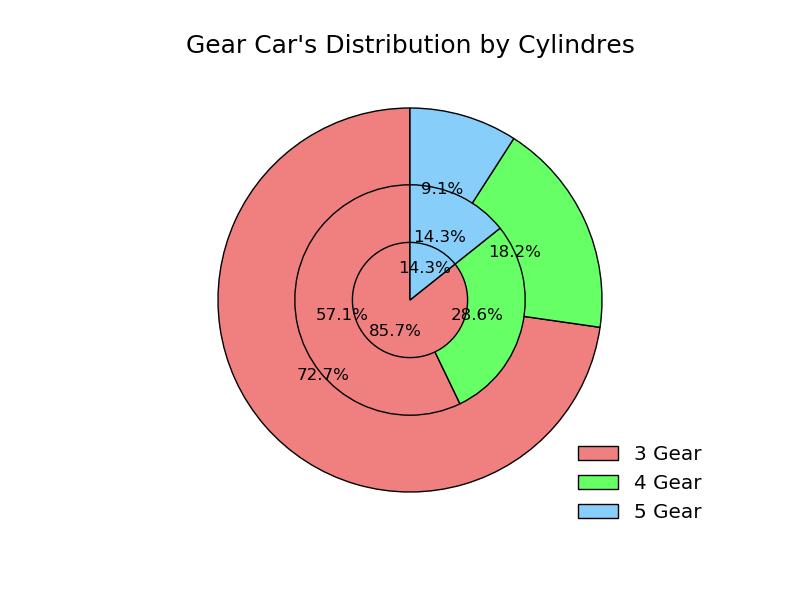
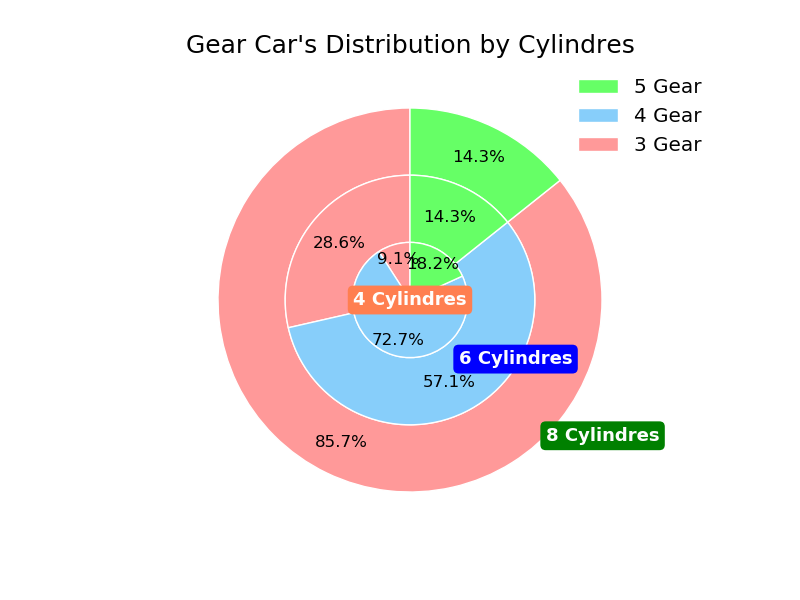
Ring Chart py

Changed region(s): [[0.25, 0.18, 0.875, 0.87], [0.7188, 0.12, 0.875, 0.27]]

diff --git a/display-patterns/Proportions/A41Simple_Pie_ChartPy.md b/display-patterns/Proportions/A41Simple_Pie_ChartPy.md
@@ -30,32 +30,107 @@ aggfunc =len)
 
 ~~~~{.python}
 import matplotlib.pyplot as plt
-import numpy as np
 from datos import data
+import pandas
 
-
-labels = '4 Cyl', '6 Cyl', '8 cyl'
-colors = ['yellowgreen', 'lightskyblue', 'lightcoral']
+colors = ['lightcoral', 'lightskyblue','yellowgreen']
 d=data('mtcars')
-t1 = d.pivot_table( values = 'carb',index=['cyl'], columns = ['gear'],
-aggfunc = len)
-plt.pie(t1.index,  labels=labels, colors=colors,
-        autopct='%1.1f%%', shadow=True, startangle=90)
+ps = pandas.Series([i for i in d.cyl])
+c = ps.value_counts()
+plt.pie(c,  labels=c.index, colors=colors, autopct='%1.1f%%',
+shadow=True, startangle=0)
 plt.axis('equal')
 plt.title('Car Distribution by Cylindres', size=18)
 plt.show()
 ~~~~~~~~~~~~~
 
-![](figures/A41Simple_Pie_ChartPy_figure2_1.png)\
+![](figures/A41Simple_Pie_ChartPy_figure2_1.png)
 
 
 
 ### Seaborn
 
 
+~~~~{.python}
+import matplotlib.pyplot as plt
+import seaborn as sns
+from datos import data
+import pandas
+
+sns.set(style="white")
+d=data('mtcars')
+colors = sns.husl_palette(3)
+d=data('mtcars')
+ps = pandas.Series([i for i in d.cyl])
+c = ps.value_counts()
+plt.pie(c,  labels=c.index, colors=colors, autopct='%1.1f%%',
+shadow=True, startangle=0)
+plt.title('Car Distribution by Cylindres', size=18)
+plt.show()
+~~~~~~~~~~~~~
+
+![](figures/A41Simple_Pie_ChartPy_figure3_1.png)
+
 
 
 ### Pyqtgraph
+
+
+~~~~{.python}
+import pyqtgraph as pg
+import random
+import numpy
+from  PyQt4  import  QtGui
+from datos import data
+
+win = pg.GraphicsWindow("Car Distribution by Cylindres")
+view = win.addViewBox()
+view.setAspectLocked()
+d=data('mtcars')
+t1 = d.pivot_table( values = 'carb',index=['gear'], columns = ['cyl'],
+aggfunc = len)
+colours = [QtGui.QColor('springgreen'), QtGui.QColor('lightskyblue'),
+QtGui.QColor('lightcoral')]
+r=[0,0,0]
+r[0]= sum(t1[4])/len(d)
+r[1]=sum(t1[6]) /len (d)
+x=t1[8]
+x = x[~numpy.isnan(x)]
+r[2]= sum(x) / len(d)
+count1=0
+labels=['','','']
+labels[0]='4 Cyl \n'+str(r[0]*100)+ '%'
+labels[1]='6 Cyl \n'+str(r[1]*100) + '%'
+labels[2]='8 Cyl \n'+str(r[2]*100) +'%'
+position=[ (-1,6), (-5,4), (-5,10)
+set_angle = 0
+
+for x in r:
+    angle = x*360*16
+    ellipse = QtGui.QGraphicsEllipseItem(0,0,100,100)
+    ellipse.setPos(0,0)
+    ellipse.setStartAngle(set_angle)
+    ellipse.setSpanAngle(angle)
+    ellipse.setBrush(colours[count1])
+    set_angle = set_angle + angle
+    ellipse.setPen(pg.mkPen(5))
+    view.addItem(ellipse)
+    count1 +=1
+
+j=0
+for x in position:
+    text = pg.TextItem(labels[j], anchor=(position[j]), color=(0,0,0))
+    view.addItem(text)
+    j+=1
+
+if __name__ == '__main__':
+    import sys
+    if (sys.flags.interactive != 1) or not hasattr(QtCore,
+'PYQT_VERSION'):
+        QtGui.QApplication.instance().exec
+~~~~~~~~~~~~~
+
+![](figures/A41Simple_Pie_ChartPy_figure4_1.png)
 
 
 

diff --git a/display-patterns/Proportions/A42Ring_ChartPy.md b/display-patterns/Proportions/A42Ring_ChartPy.md
@@ -28,13 +28,10 @@ d=data('mtcars')
 
 ~~~~{.python}
 import matplotlib.pyplot as plt
-import numpy as np
 from datos import data
 import pandas
+import numpy as np
 
-fig, ax = plt.subplots()
-ax.axis('equal')
-colors =[ 'lightcoral','#66FF66','lightskyblue']
 d=data('mtcars')
 subset1, subset2, subset3= d[d.cyl==4], d[d.cyl==6], d[d.cyl==8]
 ps = pandas.Series([i for i in subset1.gear])
@@ -43,15 +40,35 @@ ps = pandas.Series([i for i in subset2.gear])
 c2 = ps.value_counts()
 ps = pandas.Series([i for i in subset3.gear])
 c3 = ps.value_counts()
-ax.pie(c1,  colors=colors,
-        autopct='%1.1f%%', startangle=90, radius=1)
-ax.pie(c2,   colors=colors,
-       autopct='%1.1f%%', startangle=90, radius=0.6)
-colors =[ 'lightcoral','lightskyblue']
-ax.pie(c3,   colors=colors,
-       autopct='%1.1f%%', startangle=90, radius=0.3)
+
+def pie(ax, values, **kwargs):
+    wedges, _, labels = ax.pie(values, autopct='%1.1f%%', **kwargs)
+    return wedges
+
+fig, ax = plt.subplots()
+ax.axis('equal')
+width = 0.35
+kwargs = dict(colors=[ '#FF9999','#66FF66'], startangle=90)
+outside = pie(ax, c3.sort_index(), radius=1, pctdistance=1-width/2,
+**kwargs)
+kwargs = dict(colors=['#FF9999', 'lightskyblue','#66FF66' ],
+startangle=90)
+inside = pie(ax, c2.sort_index(), radius=1-width, pctdistance=1 -
+(width/2) / (1-width), **kwargs)
+center = pie(ax, c1.sort_index(), radius=1-2*width, pctdistance=1 -
+(width/2) / (1-width), **kwargs)
+plt.setp(center+inside + outside, width=width, edgecolor='white')
+ax.legend(inside[::-1], ['5 Gear', '4 Gear', '3 Gear'], frameon=False)
+kwargs = dict(size=13, color='white', va='center', fontweight='bold')
+ax.text(0, 0, '4 Cylindres', ha='center', bbox=dict(boxstyle='round',
+facecolor='coral', edgecolor='none'),**kwargs)
+ax.annotate('8 Cylindres', (0, 0), xytext=(np.radians(-45), 1),
+bbox=dict(boxstyle='round', facecolor='green', edgecolor='none'),
+            textcoords='polar', ha='left', **kwargs)
+ax.annotate('6 Cylindres', (0, 0), xytext=(np.radians(-20), 0.9),
+bbox=dict(boxstyle='round', facecolor='blue', edgecolor='none'),
+            textcoords='polar', ha='right', **kwargs)
 plt.title("Gear Car's Distribution by Cylindres", size=18)
-plt.legend(['3 Gear', '4 Gear', '5 Gear'], frameon=False, loc=4)
 plt.show()
 ~~~~~~~~~~~~~
 

diff --git a/display-patterns/Discrete Quantities/A35Isometric_Bar_ChartPy.md b/display-patterns/Discrete Quantities/A35Isometric_Bar_ChartPy.md
@@ -17,9 +17,7 @@ aggfunc=len)
 ## Dependences
 
 * Matplotlib
-* Seaborn
-* Pyqtgraph
-
+* Numpy
 
 
 ## Code Example
@@ -36,50 +34,28 @@ from datos import data
 
 d=data('mtcars')
 fig = plt.figure()
-ax = fig.add_subplot(111, projection='3d',  xlabel='Number of Gears' ,
-ylabel='Cylindres', zlabel='Frequency', title='Car Distribution by
-Gear and Cylindres')
+ax = fig.add_subplot(111, projection='3d',  xlabel='Cylindres' ,
+ylabel='Gears', zlabel='Frequency', title='Car Distribution by Gear
+and Cylindres')
 t1 = d.pivot_table( values = 'carb',index=['cyl'], columns = ['gear'],
 aggfunc = len)
-x,y =t1.columns, t1.columns
+x,y =t1.index, t1.columns
 xpos, ypos = np.meshgrid(x , y )
 elements = len(x) * len(y)
 xpos = xpos.flatten()
 ypos = ypos.flatten()
 zpos = np.zeros(elements)
-dx = 0.4 * np.ones_like(zpos)
-dy = dx.copy()
+dx= np.ones_like(zpos)
+dy=0.4 *np.ones_like(zpos)
 dz=t1.values.flatten()
+dz[np.isnan(dz)] = 0
 c=['salmon','aqua','lightpink',
 'salmon','aqua','lightpink','salmon','aqua','lightpink']
 ax.bar3d(xpos, ypos, zpos, dx, dy, dz, color=c, zsort='average')
 plt.show()
 ~~~~~~~~~~~~~
 
-![](figures/A35Isometric_Bar_ChartPy_figure2_1.png){width=12 cm}\
-
-
-
-### Seaborn
-
-
-
-
-### Pyqtgraph
-
-
-~~~~{.python}
-from pyqtgraph.Qt import QtCore, QtGui
-import pyqtgraph as pg
-import numpy as np
-from datos import data
-
-if __name__ == '__main__':
-    import sys
-    if (sys.flags.interactive != 1) or not hasattr(QtCore,
-'PYQT_VERSION'):
-        QtGui.QApplication.instance().exec_()
-~~~~~~~~~~~~~
+![](figures/A35Isometric_Bar_ChartPy_figure2_1.png)\
 
 
 

diff --git a/display-patterns/Discrete Quantities/A35Isometric_Bar_ChartR.md b/display-patterns/Discrete Quantities/A35Isometric_Bar_ChartR.md
@@ -18,12 +18,9 @@ Dependences
 
 -   lattice
 -   latticeExtra
--   ggplot2
 
 Code Example
 ------------
-
-### Graphics
 
 ### Lattice
 
@@ -45,9 +42,7 @@ Code Example
           xbase=0.4, ybase=0.4, scales=list(arrows=FALSE, col=1), main="Car Distribution by Gears and Cyl", 
           par.settings = list(axis.line = list(col = "transparent")))
 
-![](A35Isometric_Bar_ChartR_files/figure-markdown_strict/unnamed-chunk-3-1.png)<!-- -->
-
-### ggplot2
+![](A35Isometric_Bar_ChartR_files/figure-markdown_strict/unnamed-chunk-2-1.png)<!-- -->
 
 References
 ----------
